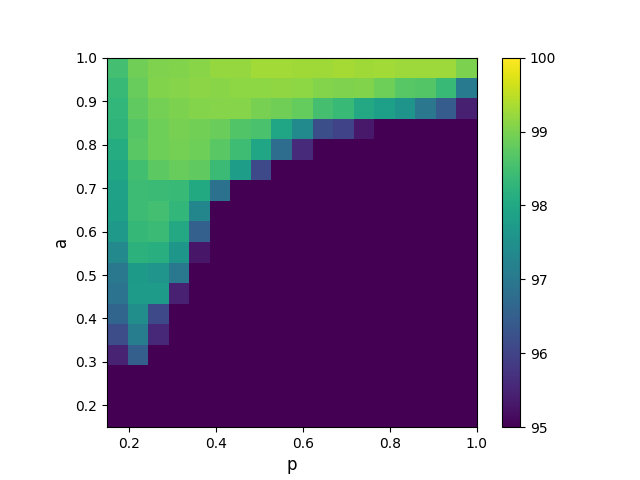
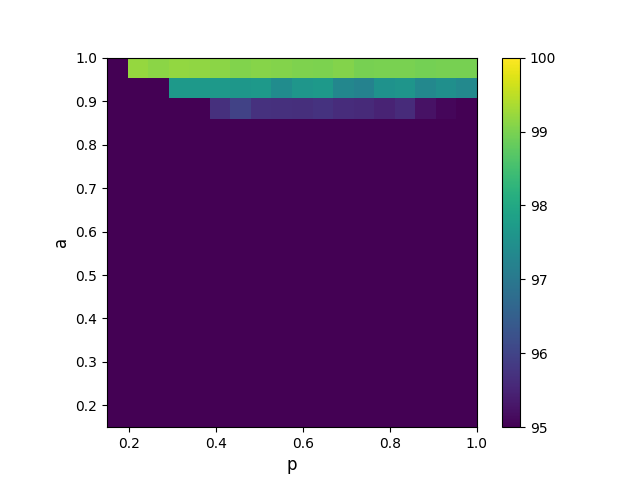
update experiment code

Changed region(s): [[0.1562, 0.125, 0.75, 0.7812]]

diff --git a/main.py b/main.py
@@ -29,7 +29,7 @@ def train(args,
           optimizer,
           epoch,
           num_classes=10,
-          use_gamblers=True,
+          use_method = True,
           text=False):
     model.train()
     loss_a = []
@@ -46,12 +46,11 @@ def train(args,
         data, target = data.to(device), target.to(device)
         optimizer.zero_grad()
         output = model(data)
-        output = F.softmax(output, dim=1)
         
-        if (args.smoothing >= 1.0):
-            loss = cal_loss(output, target, smoothing=False)
+        if (use_method):
+            loss = cal_loss(output, target, method=args.method, reduction='mean', p=args.smoothing)
         else:
-            loss = cal_loss(output, target, eps = 1.0 - args.smoothing, smoothing=True)
+            loss = cal_loss(output, target, method='nll', reduction='mean', p=args.smoothing)
 
         loss_a.append(loss.item())
         loss.backward()
@@ -154,7 +153,7 @@ def main():
     parser.add_argument(
         '--lambda_type', type=str, help='[nll, euc, mid, exp, gmblers]', default="euc")
     parser.add_argument(
-        '--start_gamblers', type=int, help='number of epochs before starting gamblers', default=0)
+        '--start_method', type=int, help='number of epochs before starting method', default=0)
 
     # label smoothing args
     parser.add_argument(
@@ -166,6 +165,17 @@ def main():
         '--optimal_smoothing',
         action='store_true',
         default=False)
+    parser.add_argument(
+        '--agnostic_smoothing',
+        action='store_true',
+        default=False)
+    parser.add_argument(
+        '--scale_lr',
+        action='store_true',
+        default=False)
+    
+    parser.add_argument(
+        '--method', type=str, help='[nll, smoothing]', default="nll")
 
     args = parser.parse_args()
     args.use_scheduler = False
@@ -255,13 +265,17 @@ def main():
             rate=args.noise_rate, batch_size=args.batch_size)
 
     use_cuda = torch.cuda.is_available()
-    device = torch.device("cuda:{}".format(args.gpu) if use_cuda else "cpu")
+    device = torch.device("cuda:{}".format(args.gpu) if (use_cuda and args.gpu >= 0) else "cpu")
     print("using {}".format(device))
+    
+    if (args.scale_lr):
+        args.lr *= (0.9 / (args.smoothing - 0.1))
+        print("learning rate scaled to {}".format(args.lr))
 
     print('building model...')
     if args.dataset == 'mnist':
         model = CNN_basic(num_classes=num_classes).to(device)
-        optimizer = LaProp(filter(lambda p: p.requires_grad, model.parameters()), lr=args.lr, eps=1e-12)
+        optimizer = torch.optim.SGD(model.parameters(), lr=args.lr, momentum=0.9)
     if args.dataset == 'cifar10':
         # model = CNN_small(num_classes=num_classes).to(device)
         # optimizer = torch.optim.SGD(model.parameters(), lr=args.lr)
@@ -284,8 +298,11 @@ def main():
         clean_rate = 1 - args.noise_rate
         args.smoothing = (1 - (2 * clean_rate) + clean_rate * clean_rate * num_classes) / (num_classes - 1)
         print("Using smoothing parameter {:.2f} for clean rate {:.2f}".format(args.smoothing, clean_rate))
+    if args.agnostic_smoothing:
+        args.smoothing = (num_classes + 2) / (3 * num_classes)
+        print("Using smoothing parameter {:.2f} for clean rate {:.2f}".format(args.smoothing, 1 - args.noise_rate))
 
-    name = "{}_{}_{:.2f}_{}_{}".format(args.dataset, args.noise_type, args.noise_rate, args.eps, args.seed)
+    name = "{}_{}_{}_{:.2f}_{:.2f}_{}_{}".format(args.dataset, args.method, args.noise_type, args.smoothing, args.noise_rate, args.eps, args.seed)
 
     if not os.path.exists(args.result_dir):
         os.system('mkdir -p %s' % args.result_dir)
@@ -302,7 +319,7 @@ def main():
             optimizer,
             epoch,
             num_classes=num_classes,
-            use_gamblers=(epoch >= args.start_gamblers),
+            use_method=(epoch >= args.start_method),
             text=(args.dataset == 'imdb'))
         train_losses.append(train_loss)
         test_acc, test_loss = test(args, model, device, test_loader, num_classes, text=(args.dataset == 'imdb'))
@@ -320,6 +337,7 @@ def main():
         # }, args.result_dir + "/" + name + "_model.npy")
 
     save_data = {
+        "command": " ".join(sys.argv),
         "train_loss" : train_losses,
         "test_loss" : test_losses,
         "test_acc" : test_accs

diff --git a/loss.py b/loss.py
@@ -1,23 +1,58 @@
 import torch
 import torch.nn.functional as F
+import pdb
 
-def cal_loss(pred, target, eps=0.0, smoothing=False, reduction='mean'):
+def nll_loss(pred, target, **kwargs):
+    loss = F.cross_entropy(pred, target, reduction='none')
+    return loss
+
+def smoothing_loss(pred, target, p=1.0, **kwargs):
+    n_class = pred.size(1)
+
+    one_hot = torch.zeros_like(pred).scatter(1, target.view(-1, 1), 1)
+    one_hot = one_hot * p + (1 - one_hot) * (1 - p) / (n_class - 1)
+    log_prb = F.log_softmax(pred, dim=1)
+
+    loss = -(one_hot * log_prb).sum(dim=1)
+
+    return loss
+
+def fsmoothing_loss(pred, target, p=1.0, **kwargs):
+    n_class = pred.size(1)
+
+    one_hot = torch.eye(n_class, n_class).to(pred.get_device())
+    one_hot = one_hot * p + (1 - one_hot) * (1 - p) / (n_class - 1)
+    
+    pred = torch.matmul(pred, one_hot)
+    
+    loss = nll_loss(pred, target)
+    return loss
+
+def agnostic_smoothing_loss(pred, target, p=1.0, **kwargs):
+    n_class = pred.size(1)
+
+    one_hot = torch.zeros_like(pred).scatter(1, target.view(-1, 1), 1)
+    one_hot = one_hot * p + (1 - one_hot) * (1 - p) / (n_class - 1)
+    log_prb = F.log_softmax(pred, dim=1)
+
+    loss = -(one_hot * log_prb).sum(dim=1)
+
+    return loss
+
+def lq_loss(pred, target, q=0.7, **kwargs):
+    pred = F.softmax(pred, dim=1)
+    loss = -1 * F.nll_loss(pred, target, reduction='none')
+    loss = (1 - (loss + 1e-10).pow(q)) / q
+    return loss
+
+def cal_loss(pred, target, method='nll', reduction='mean', **kwargs):
     ''' Calculate cross entropy loss, apply label smoothing if needed. '''
 
     target = target.contiguous().view(-1)
 
-    if smoothing:
-        n_class = pred.size(1)
-
-        one_hot = torch.zeros_like(pred).scatter(1, target.view(-1, 1), 1)
-        one_hot = one_hot * (1 - eps) + (1 - one_hot) * eps / (n_class - 1)
-        log_prb = F.log_softmax(pred, dim=1)
-
-        loss = -(one_hot * log_prb).sum(dim=1)
-        if (reduction == 'mean'):
-            loss = loss.mean()
-        else:
-            loss = loss.sum()
+    loss = globals()["{}_loss".format(method)](pred, target, **kwargs)
+    if (reduction == 'mean'):
+        loss = loss.mean()
     else:
-        loss = F.cross_entropy(pred, target, reduction=reduction)
+        loss = loss.sum()
     return loss

diff --git a/analysis/grid_search.py b/analysis/grid_search.py
@@ -29,8 +29,8 @@ def get_data(p, a):
     data = json.load(open(path, 'r'))
     return data
 
-data_dir = "../results/grid_search/{}".format(args.dataset)
-plot_dir = "plots"
+data_dir = "results/grid_search_lr/{}".format(args.dataset)
+plot_dir = "analysis/plots/grid_search_lr"
 p_grid = [0.05 * i for i in range(3, 21)]
 a_grid = [0.05 * i for i in range(3, 21)]
 
@@ -47,7 +47,7 @@ if (args.graph == "grid"):
     plt.legend(loc='center left', bbox_to_anchor=(1, 0.5))
     plt.xlabel("p", fontsize=12)
     plt.ylabel("{}".format(args.y), fontsize=12)
-    plt.savefig('{}/grid_search/{}_{}.png'.format(plot_dir, args.graph, args.y), bbox_inches='tight')
+    plt.savefig('{}/{}_{}.png'.format(plot_dir, args.graph, args.y), bbox_inches='tight')
     plt.clf()
 
 if (args.graph == "fixed_a"):
@@ -58,18 +58,18 @@ if (args.graph == "fixed_a"):
     plt.legend()
     plt.xlabel("epochs", fontsize=12)
     plt.ylabel("{}".format(args.y), fontsize=12)
-    plt.savefig('{}/grid_search/{}_{}_{}.png'.format(plot_dir, args.graph, args.y, a))
+    plt.savefig('{}/{}_{}_{}.png'.format(plot_dir, args.graph, args.y, a))
 
 if (args.graph == "heatmap"):
     epoch = 100
     data = []
     for a in reversed(a_grid):
         data.append([get_data(p, a)[args.y][epoch - 1] for p in p_grid])
-    plt.imshow(data, cmap='viridis', extent=[0.15, 1.0, 0.15, 1.0], vmin=95, vmax=100)
+    plt.imshow(data, cmap='viridis', extent=[0.15, 1.0, 0.15, 1.0], vmin=0, vmax=100)
     plt.xlabel("p", fontsize=12)
     plt.ylabel("a", fontsize=12)
     plt.colorbar()
-    plt.savefig('{}/grid_search/{}_{}.png'.format(plot_dir, args.graph, args.y))
+    plt.savefig('{}/{}_{}.png'.format(plot_dir, args.graph, args.y))
 
 if (args.graph == "progress"):
     data = []
@@ -83,5 +83,5 @@ if (args.graph == "progress"):
     plt.xlabel("p", fontsize=12)
     plt.ylabel("a", fontsize=12)
     plt.colorbar()
-    plt.savefig('{}/grid_search/{}_{}.png'.format(plot_dir, args.graph, args.y))
+    plt.savefig('{}/{}_{}.png'.format(plot_dir, args.graph, args.y))
             

diff --git a/analysis/performance.py b/analysis/performance.py
@@ -1,0 +1,54 @@
+import os
+import sys
+import json
+import numpy as np
+import argparse
+import matplotlib.pyplot as plt
+from os import path
+
+parser = argparse.ArgumentParser(
+        description='Performance Runner')
+
+parser.add_argument(
+        '--method', type=str, help='[nll, smoothing]', default="nll")
+
+parser.add_argument(
+        '--y', type=str, help='[train_loss, test_acc, test_loss]', default="test_acc")
+
+parser.add_argument(
+        '--dataset', type=str, help='[mnist, cifar10]', default="mnist")
+
+parser.add_argument(
+        '--task', type=str, help='[stats, curve]', default="stats")
+
+args = parser.parse_args()
+
+data_dir = "results/performance/{}/{}".format(args.dataset, args.method)
+plot_dir = "plots/performance"
+
+def get_path(a, seed):
+    file_name = "{}_symmetric_{:.2f}_1000.0_{}.json".format(args.dataset, 1 - a, seed)
+    return "{}/{}".format(data_dir, file_name)
+
+def get_data(a, seed):
+    path = get_path(a, seed)
+    data = json.load(open(path, 'r'))
+    return data
+
+epoch = 99
+
+if (args.task == 'stats'):
+    print("method: {}".format(args.method))
+    for clean_rate in [0.2, 0.5, 0.8]:
+        data = [get_data(clean_rate, seed)[args.y][epoch - 1] for seed in range(1, 6)]
+        print(data)
+        # print(data)
+        print("clean rate: {}, {}: {:.2f}+-{:.2f}".format(clean_rate, args.y, np.mean(data), np.std(data)))
+elif (args.task == 'curve'):
+    clean_rate = 0.5
+    
+    data = get_data(clean_rate, 1)[args.y]
+    plt.plot(np.arange(0, len(data), 1), data)
+    plt.xlabel("epoch", fontsize=12)
+    plt.ylabel("{}".format(args.y), fontsize=12)
+    plt.savefig('{}/{}_{}_{}.png'.format(plot_dir, args.task, args.y, args.method))
